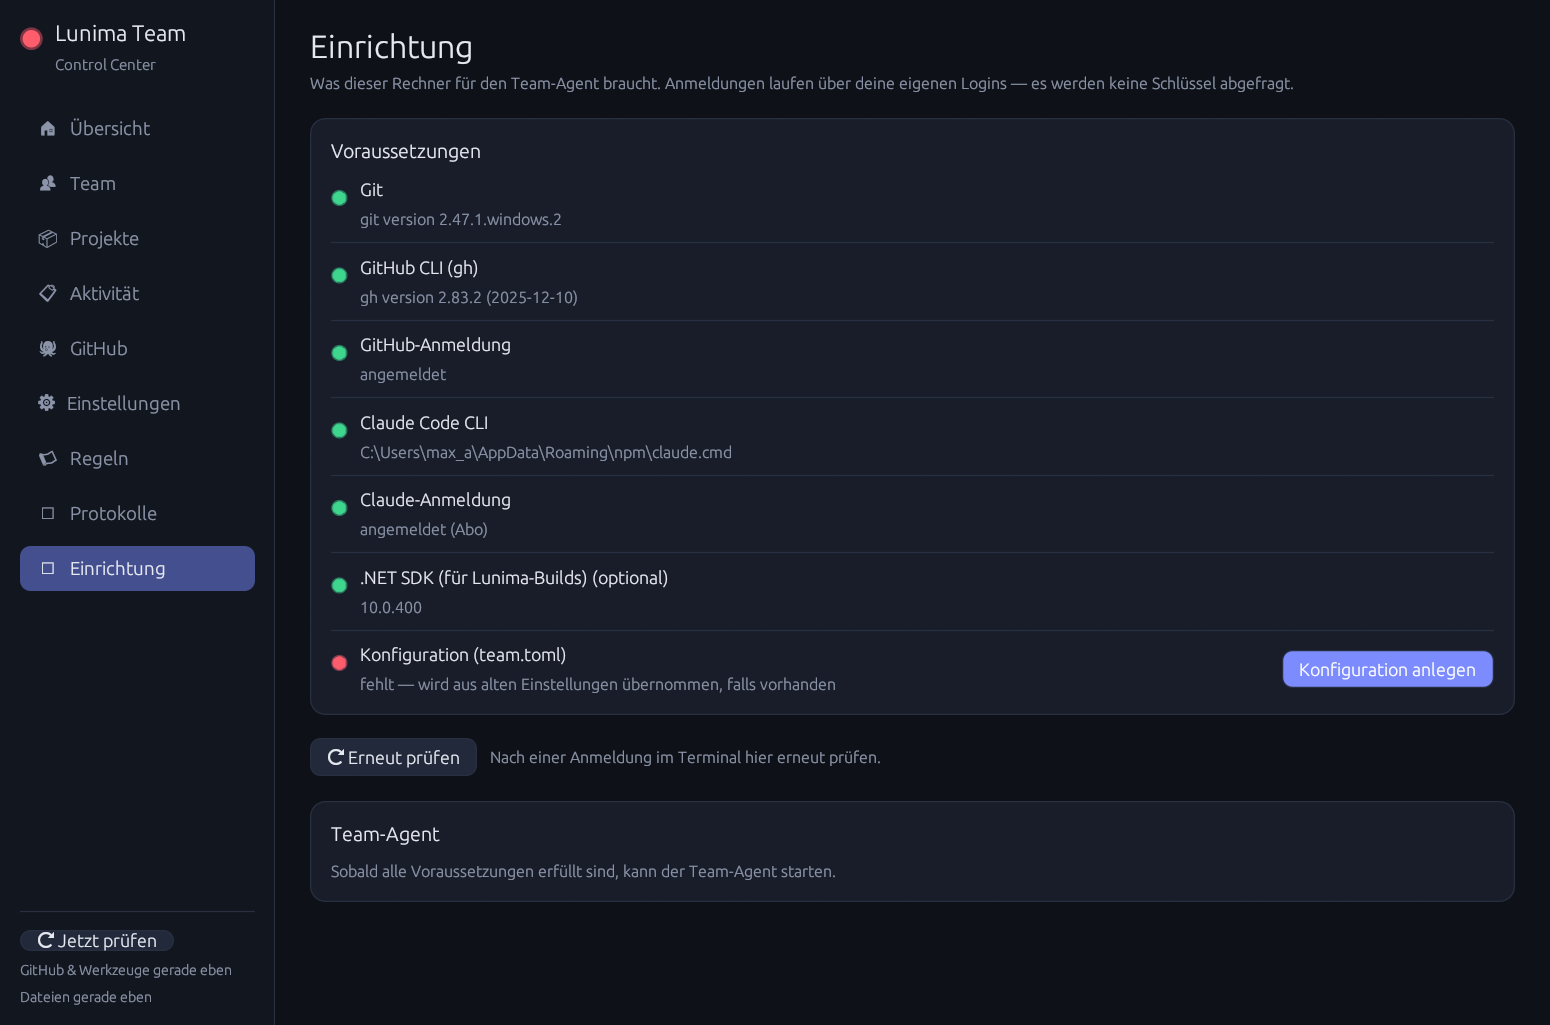
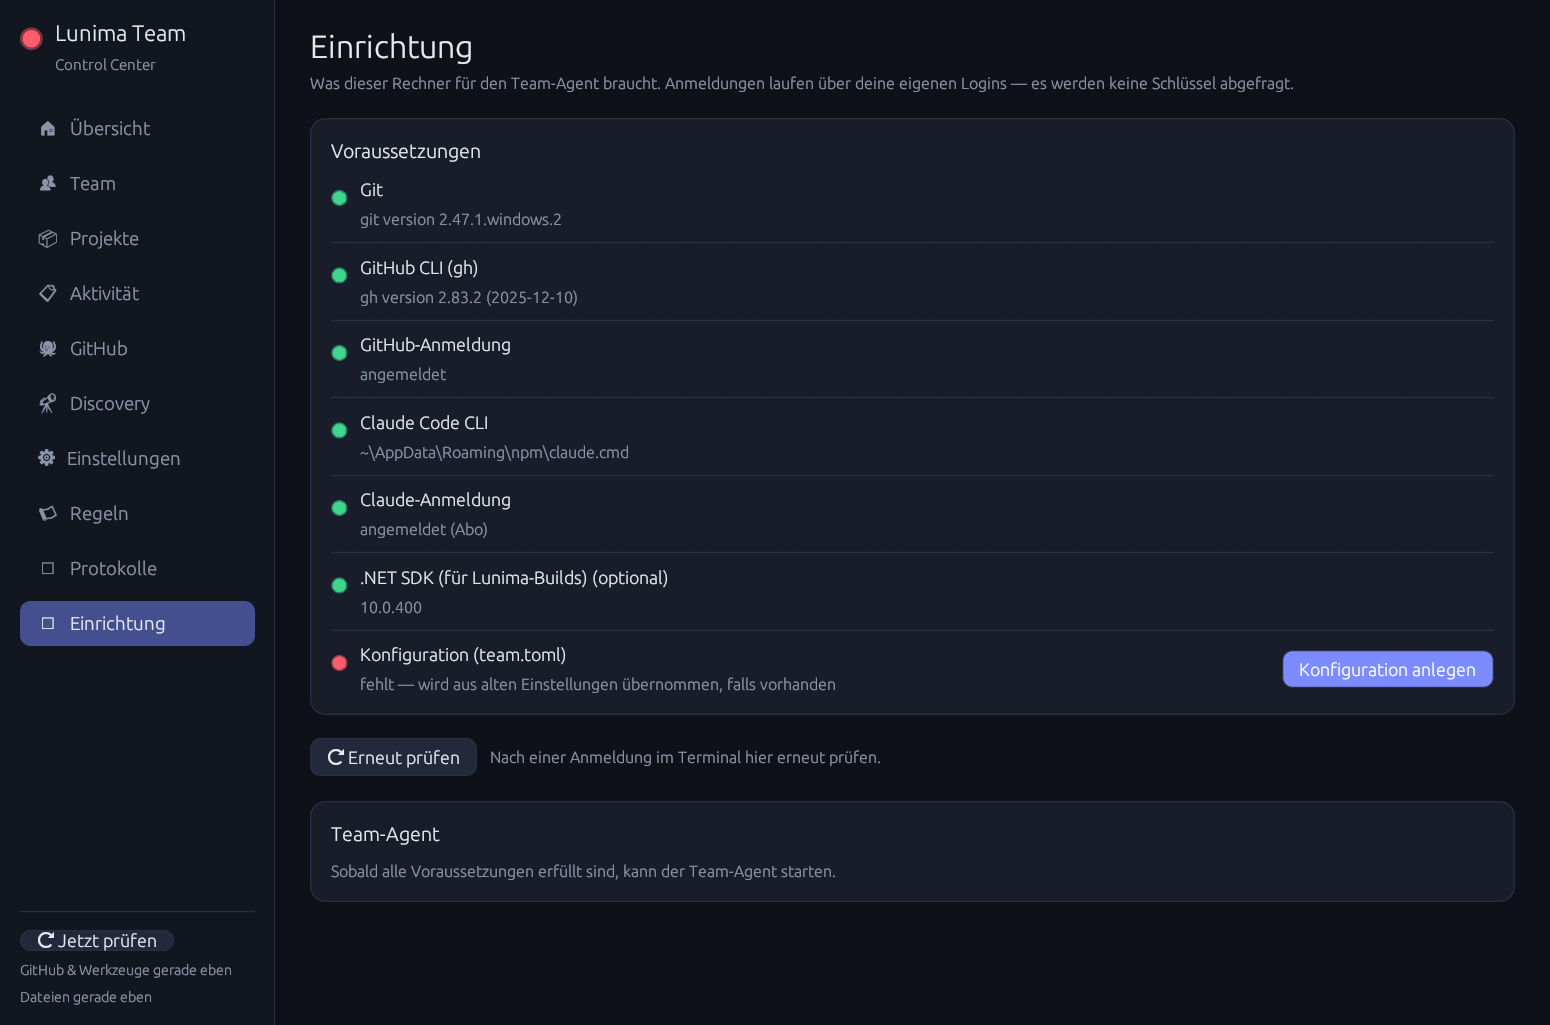
(=) PR review fixes: deterministic UX test, robust screenshot mode, no user folder shown
- UX test: keep the real "last night" (an older night's report is discarded by the PO
  section's 3-day limit) and run every journey, so the sample journey is always there.
- Screenshot mode: closing the window quits (no tray to bring it back), --tray is ignored,
  the window is un-maximised and sized to 1240x820 whatever the user's last state was,
  the run gives up with exit 2 after 25 s without an image, a missing file name is an
  error, and the PNG writer is finished explicitly.
- Setup page shows paths under the user's folder as ~ (the page ends up in screenshots);
  README screenshot retaken.

diff --git a/control-center/src/core/setup.rs b/control-center/src/core/setup.rs
@@ -42,6 +42,15 @@ fn check(title: &'static str, result: Result<String, String>, optional: bool, ac
     }
 }
 
+/// `path` with the user's own folder shown as `~`: the page ends up in screenshots and
+/// support requests, and the user name doesn't help anyone there.
+pub fn without_home(path: &str, home: Option<&str>) -> String {
+    match home.filter(|h| !h.is_empty()) {
+        Some(h) if path.get(..h.len()).is_some_and(|p| p.eq_ignore_ascii_case(h)) && matches!(path.as_bytes().get(h.len()), Some(b'\\' | b'/')) => format!("~{}", &path[h.len()..]),
+        _ => path.to_string(),
+    }
+}
+
 /// All checks in the order a new machine has to work through them.
 pub fn evaluate(p: &dyn Probes, config_exists: bool) -> Vec<SetupCheck> {
     let git = check("Git", p.version("git"), false, Some(("Herunterladen", SetupAction::Open("https://git-scm.com/downloads"))));
@@ -54,7 +63,9 @@ pub fn evaluate(p: &dyn Probes, config_exists: bool) -> Vec<SetupCheck> {
         check("GitHub-Anmeldung", Err("erst gh installieren".into()), false, None)
     };
     let cli = p.claude_cli();
-    let claude = check("Claude Code CLI", cli.clone().ok_or_else(|| "claude nicht im PATH".to_string()), false, Some(("Anleitung öffnen", SetupAction::Open("https://docs.claude.com/en/docs/claude-code/setup"))));
+    let home = std::env::var("USERPROFILE").or_else(|_| std::env::var("HOME")).ok();
+    let shown = cli.as_deref().map(|c| without_home(c, home.as_deref()));
+    let claude = check("Claude Code CLI", shown.ok_or_else(|| "claude nicht im PATH".to_string()), false, Some(("Anleitung öffnen", SetupAction::Open("https://docs.claude.com/en/docs/claude-code/setup"))));
     let login = match (cli.is_some(), p.claude_login()) {
         (false, _) => Err("erst die Claude-CLI installieren".to_string()),
         (true, Ok(true)) => Ok("angemeldet (Abo)".to_string()),
@@ -155,5 +166,16 @@ GITHUB_TOKEN=secret
         let login = checks.iter().find(|c| c.title == "GitHub-Anmeldung").unwrap();
         assert!(!login.ok && login.action.is_none());
         assert!(!checks.iter().find(|c| c.title == "Claude-Anmeldung").unwrap().ok);
+    }
+
+    #[test]
+    fn paths_hide_the_user_folder() {
+        let home = Some(r"C:\Users\max_a");
+        assert_eq!(without_home(r"C:\Users\max_a\AppData\Roaming\npm\claude.cmd", home), r"~\AppData\Roaming\npm\claude.cmd");
+        assert_eq!(without_home(r"c:\users\MAX_A\x.exe", home), r"~\x.exe", "Windows paths ignore case");
+        assert_eq!(without_home(r"C:\Users\max_ab\x.exe", home), r"C:\Users\max_ab\x.exe", "another user's folder");
+        assert_eq!(without_home("/home/max/.local/bin/claude", Some("/home/max")), "~/.local/bin/claude");
+        assert_eq!(without_home("claude.exe", None), "claude.exe");
+        assert_eq!(without_home(r"C:\Üser\x", Some(r"C:\Ü")), r"C:\Üser\x", "no panic inside a multi-byte character");
     }
 }

diff --git a/control-center/src/screenshot.rs b/control-center/src/screenshot.rs
@@ -8,16 +8,22 @@ use std::time::{Duration, Instant};
 
 /// The collector's slow probes (GitHub, tools) need a moment before the pages are complete.
 const SETTLE: Duration = Duration::from_secs(6);
+/// Window size of every screenshot (points), whatever size and state the user's window had
+/// last: eframe restores those even with persistence off, and README images should match.
+const SIZE: [f32; 2] = [1240.0, 820.0];
+/// A script waiting for the PNG must not hang when the capture never arrives.
+const GIVE_UP: Duration = Duration::from_secs(25);
 
 pub struct Screenshot {
     path: PathBuf,
     started: Instant,
+    sized: bool,
     requested: bool,
 }
 
 impl Screenshot {
     pub fn new(path: PathBuf) -> Self {
-        Self { path, started: Instant::now(), requested: false }
+        Self { path, started: Instant::now(), sized: false, requested: false }
     }
 
     /// Call once per frame; exits the process after the PNG is written.
@@ -38,6 +44,16 @@ impl Screenshot {
             };
             std::process::exit(code);
         }
+        if !self.sized {
+            self.sized = true;
+            // a maximised window (restored from the user's last session) ignores InnerSize
+            ctx.send_viewport_cmd(egui::ViewportCommand::Maximized(false));
+            ctx.send_viewport_cmd(egui::ViewportCommand::InnerSize(egui::vec2(SIZE[0], SIZE[1])));
+        }
+        if self.started.elapsed() >= GIVE_UP {
+            eprintln!("screenshot: no image after {} s — window hidden or the graphics backend doesn't support capture", GIVE_UP.as_secs());
+            std::process::exit(2);
+        }
         if !self.requested && self.started.elapsed() >= SETTLE {
             self.requested = true;
             ctx.send_viewport_cmd(egui::ViewportCommand::Screenshot(egui::UserData::default()));
@@ -53,5 +69,7 @@ fn save_png(path: &PathBuf, image: &egui::ColorImage) -> Result<(), String> {
     encoder.set_depth(png::BitDepth::Eight);
     let mut writer = encoder.write_header().map_err(|e| e.to_string())?;
     let bytes: Vec<u8> = image.pixels.iter().flat_map(|p| p.to_array()).collect();
-    writer.write_image_data(&bytes).map_err(|e| e.to_string())
+    writer.write_image_data(&bytes).map_err(|e| e.to_string())?;
+    // finish() flushes and reports errors that dropping the writer would swallow
+    writer.finish().map_err(|e| e.to_string())
 }

diff --git a/crates/team-agent/src/ux/tests.rs b/crates/team-agent/src/ux/tests.rs
@@ -35,18 +35,6 @@ fn night() -> DateTime<Local> {
     Local.from_local_datetime(&day.and_hms_opt(2, 30, 0).unwrap()).unwrap()
 }
 
-/// A recent night whose rotation (`plan::pick`) includes a journey with the sample GDS.
-/// `night()` alone follows the calendar, and on some days none of tonight's journeys
-/// needs the sample, so assertions about the staged sample path would fail by date.
-fn night_with_sample(w: &World) -> DateTime<Local> {
-    let ux = &w.ctx("A").cfg.ux_review;
-    let goals = plan::load_goals(&ux.goals_file).unwrap();
-    (0..30)
-        .map(|back| night() - Duration::days(back))
-        .find(|n| plan::pick(&goals, plan::window_day(*n, ux.hour), ux.goals_per_run).iter().any(|g| g.to_string().contains(plan::SAMPLE_GDS)))
-        .expect("the built-in rotation reaches a sample journey within 30 nights")
-}
-
 fn night_lock() -> String {
     format!("ux-{}", night().format("%Y%m%d"))
 }
@@ -124,8 +112,11 @@ impl World {
 #[test]
 fn complete_review_files_issues_and_publishes_the_report_for_every_machine() {
     let w = world();
-    let a = w.ctx("A");
-    assert_eq!(w.reviewer(Tester::Complete, night_with_sample(&w)).cycle(&a), Ok(true));
+    let mut a = w.ctx("A");
+    // every journey tonight: `plan::pick` rotates by calendar day, and on some days none of
+    // the default three needs the sample GDS whose staged path is checked below
+    a.cfg.ux_review.goals_per_run = plan::load_goals(&a.cfg.ux_review.goals_file).unwrap().len();
+    assert_eq!(w.reviewer(Tester::Complete, night()).cycle(&a), Ok(true));
     let st = UxState::load(&a.paths.state()).unwrap();
     assert_eq!((st.last_result.as_str(), st.filed_issues.clone()), ("ok", vec![77]));
     assert!(st.last_ok_report.is_some() && st.last_ok_end.is_some());

diff --git a/control-center/src/main.rs b/control-center/src/main.rs
@@ -35,10 +35,20 @@ fn parse_args() -> Args {
         match a.as_str() {
             "--home" => parsed.home = args.next().map(PathBuf::from),
             "--tray" => parsed.start_hidden = true,
-            "--screenshot" => parsed.screenshot = args.next().map(PathBuf::from),
+            "--screenshot" => match args.next() {
+                Some(file) => parsed.screenshot = Some(PathBuf::from(file)),
+                None => {
+                    eprintln!("--screenshot braucht einen Dateinamen, z. B. --screenshot team.png");
+                    std::process::exit(2);
+                }
+            },
             "--page" => parsed.page = args.next().and_then(|p| app::Page::from_arg(&p)).unwrap_or(parsed.page),
             _ => {}
         }
+    }
+    // a screenshot needs a visible window: a hidden one never paints or delivers the image
+    if parsed.screenshot.is_some() {
+        parsed.start_hidden = false;
     }
     parsed
 }

diff --git a/control-center/src/app.rs b/control-center/src/app.rs
@@ -128,7 +128,8 @@ fn footer(ui: &mut egui::Ui, s: &Snapshot, handle: &Handle) {
 
 impl eframe::App for App {
     fn update(&mut self, ctx: &egui::Context, _frame: &mut eframe::Frame) {
-        if ctx.input(|i| i.viewport().close_requested()) {
+        // closing hides the window into the tray; a screenshot run has no tray, so it quits
+        if self.screenshot.is_none() && ctx.input(|i| i.viewport().close_requested()) {
             ctx.send_viewport_cmd(egui::ViewportCommand::CancelClose);
             win::hide_main();
         }
